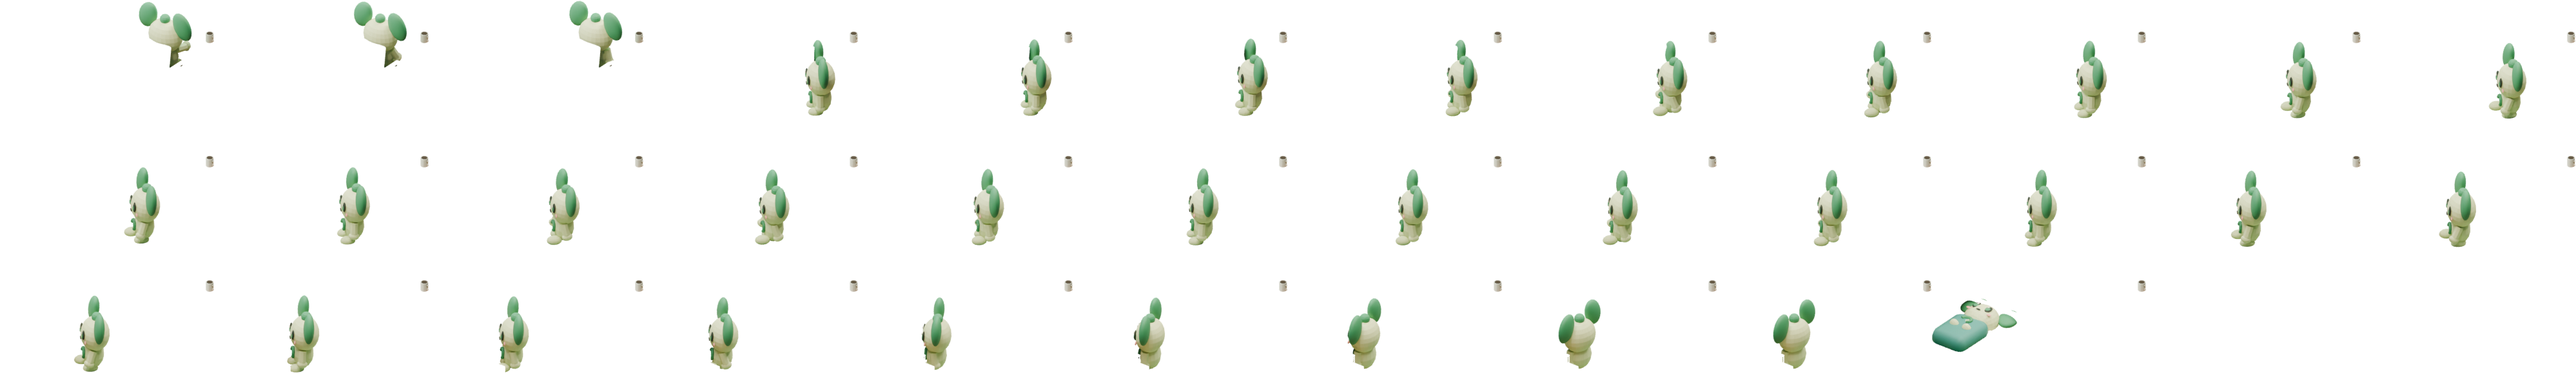
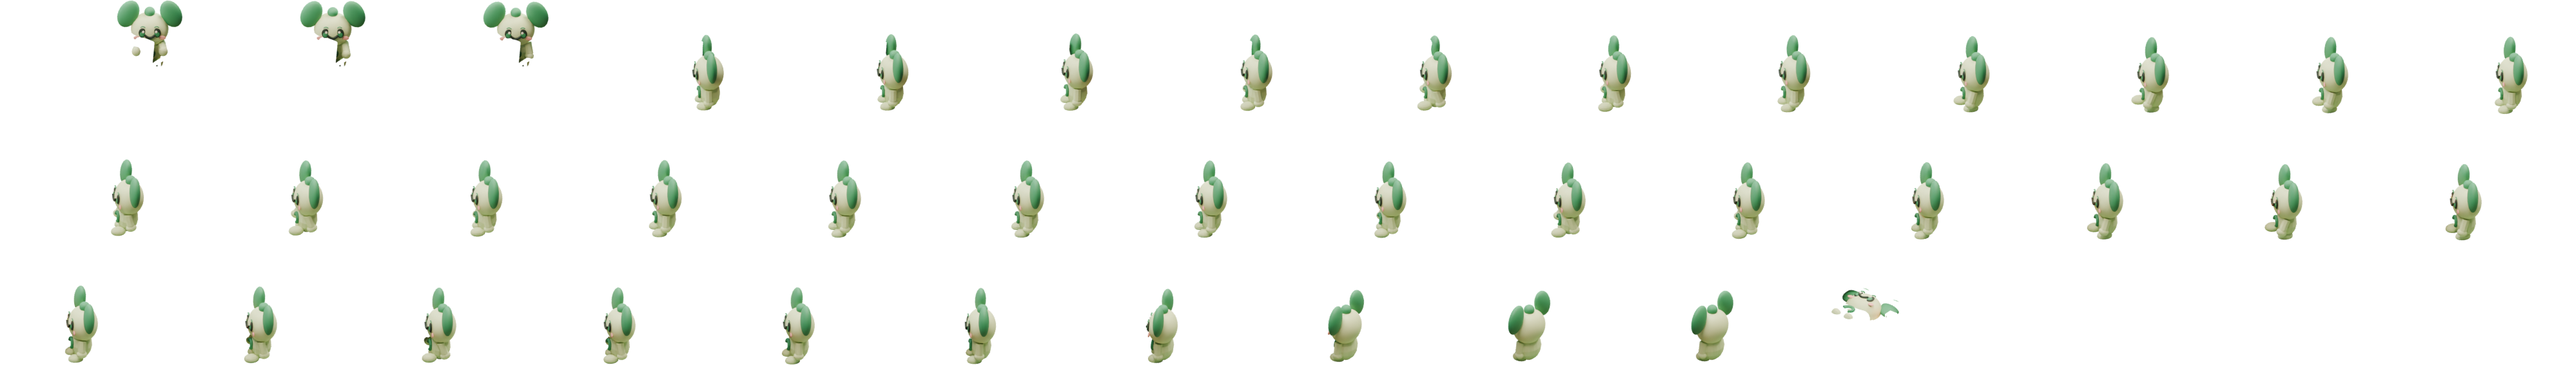
feat: re-export Claaky3D bureau sprites and update status doc

diff --git a/docs/Claaky3D/etat-actuel-claaky3d.md b/docs/Claaky3D/etat-actuel-claaky3d.md
@@ -65,20 +65,23 @@ Le script construit notamment :
 - un lit, un tapis, des plantes, des bibliothèques et quelques accessoires ;
 - une caméra orthographique, un éclairage et des réglages de rendu.
 
-## Vérification à faire
+## Vérification visuelle de la scène (23/10)
 
-Les modifications du script ont été effectuées, mais le rendu Blender n’a pas été vérifié visuellement après ces changements. Relancer `claaky_bureau.py` dans Blender, puis inspecter le rendu à la taille de caméra pour confirmer :
+Contrôlée sur des rendus Blender 4.5 de `claaky_etats.py` (frame 100 en 1000 px, frame 190 du clip `attente` en 320 px) et sur le `decor.png` exporté en 640 px :
 
-- que le lit est bien placé en bas à gauche et reste lisible ;
-- que la plante au sol ne chevauche ni le lit ni le mobilier ;
-- que les oreilles arrondies ont une silhouette et une taille satisfaisantes ;
-- que la suppression du meuble sous la fenêtre laisse une composition équilibrée.
+- lit en bas à gauche : lisible ;
+- table de chevet et lanterne à côté de l’oreiller : confirmé sur `decor.png` ;
+- oreilles arrondies : silhouette lisible ;
+- composition sous la fenêtre : équilibrée ;
+- sourire face caméra (clip `attente`, frame 190) : net, bouche courbée et joues roses.
 
-Après validation, enregistrer une version `.blend` de référence et conserver le script dans Git.
+Non confirmé : la plante au sol `plant(-2.55,-1.25,.12,.72)` n’est pas visible sur `decor.png` ni sur les rendus. Elle est probablement masquée par le lit vu de la caméra. Il faut trancher : la déplacer ou la supprimer.
 
-## Prochaine étape suggérée
+Aucun `.blend` de référence n’a encore été enregistré (`Sans nom.blend`, non suivi par Git, n’est pas validé comme référence).
 
-Valider visuellement cette scène de base, puis ajouter les états et animations nécessaires (travail, planification, attente, repos) avant de connecter le comportement aux événements réels de l’agent.
+## Prochaines étapes
+
+Les états, les animations et l’intégration IDE existent déjà (voir plus bas). Restent : décider du sort de la plante au sol, contrôler une par une les planches réexportées dans l’IDE, puis brancher la salle du swarm aux événements réels.
 
 ## Scènes ajoutées (scripts Python)
 
@@ -142,12 +145,16 @@ La table de chevet de la scène fixe et celle de la scène animée ont maintenan
 - Blender 4.5 génère la scène du bureau (978 objets, 864 frames) sans erreur.
 - Prévisualisation Cycles du lit et du mobilier rendue ; plateau de chevet relevé.
 - `npx tsc --noEmit` et `git diff --check` passent.
-- Les planches de `public/claaky3d/bureau/` sont celles de l’export antérieur aux derniers changements de forme/chevet ; réexport nécessaire pour que l’IDE affiche les corrections.
-- `npm run build` passe après les corrections récentes.
-- La salle du swarm et son cadrage n’ont pas été retestés après les modifications.
+- Réexport complet du 23/10 (`export_ide.sh`, 640 px, 24 échantillons, GPU, ≈ 1 h 20) : `public/claaky3d/bureau/` contient `decor.png`, les 20 planches et `clips.json`. Le manifeste liste exactement ces 20 clips.
+- `npx tsc --noEmit` et `npm run build` passent après le réexport.
+- Salle du swarm : rendus de prévisualisation frames 1 et 200 avec `camera_scale` 12,5. La pièce est entière, le tableau, le compteur et les personnages sont lisibles, aucun ajustement nécessaire.
 
 ### Vérifié / non vérifié
 
 Génération testée sous Blender 4.5 en arrière-plan ; rendus contrôlés pour le clavier, l’autorisation, le tableau, le sommeil, le réveil, la célébration, l’arrivée des agents et la remise de dossier.
 
-Non vérifié : le nouveau cadrage du swarm (`camera_scale` 14,5 → 12,5). Limite connue : l’ombre du personnage n’apparaît pas sur le décor dans les sprites exportés.
+Non vérifié : les planches réexportées n’ont pas été contrôlées une à une, et l’affichage dans l’IDE n’a pas été relancé (redémarrer `npm run tauri dev` pour vider le cache).
+
+**Prévisualisations :** les variables `SAMPLES` et `SIZE` ne sont lues que par `export_ide.sh`. Pour un rendu `--render` rapide, régler `cb.CONFIG` dans un petit script appelant (taille et échantillons) au lieu de compter sur ces variables d’environnement.
+
+**Limite connue, ombre :** l’ombre du personnage n’apparaît pas sur le décor dans les sprites. Un test avec shadow catcher sur le clip `erreur` n’a produit qu’une trace pâle au sol, sans ombre de contact nette ; il a été abandonné. Piste possible : une passe d’ombre séparée composée par `ClaakyRoom.tsx`, ou une ombre de contact dessinée sous le personnage dans le canvas.
